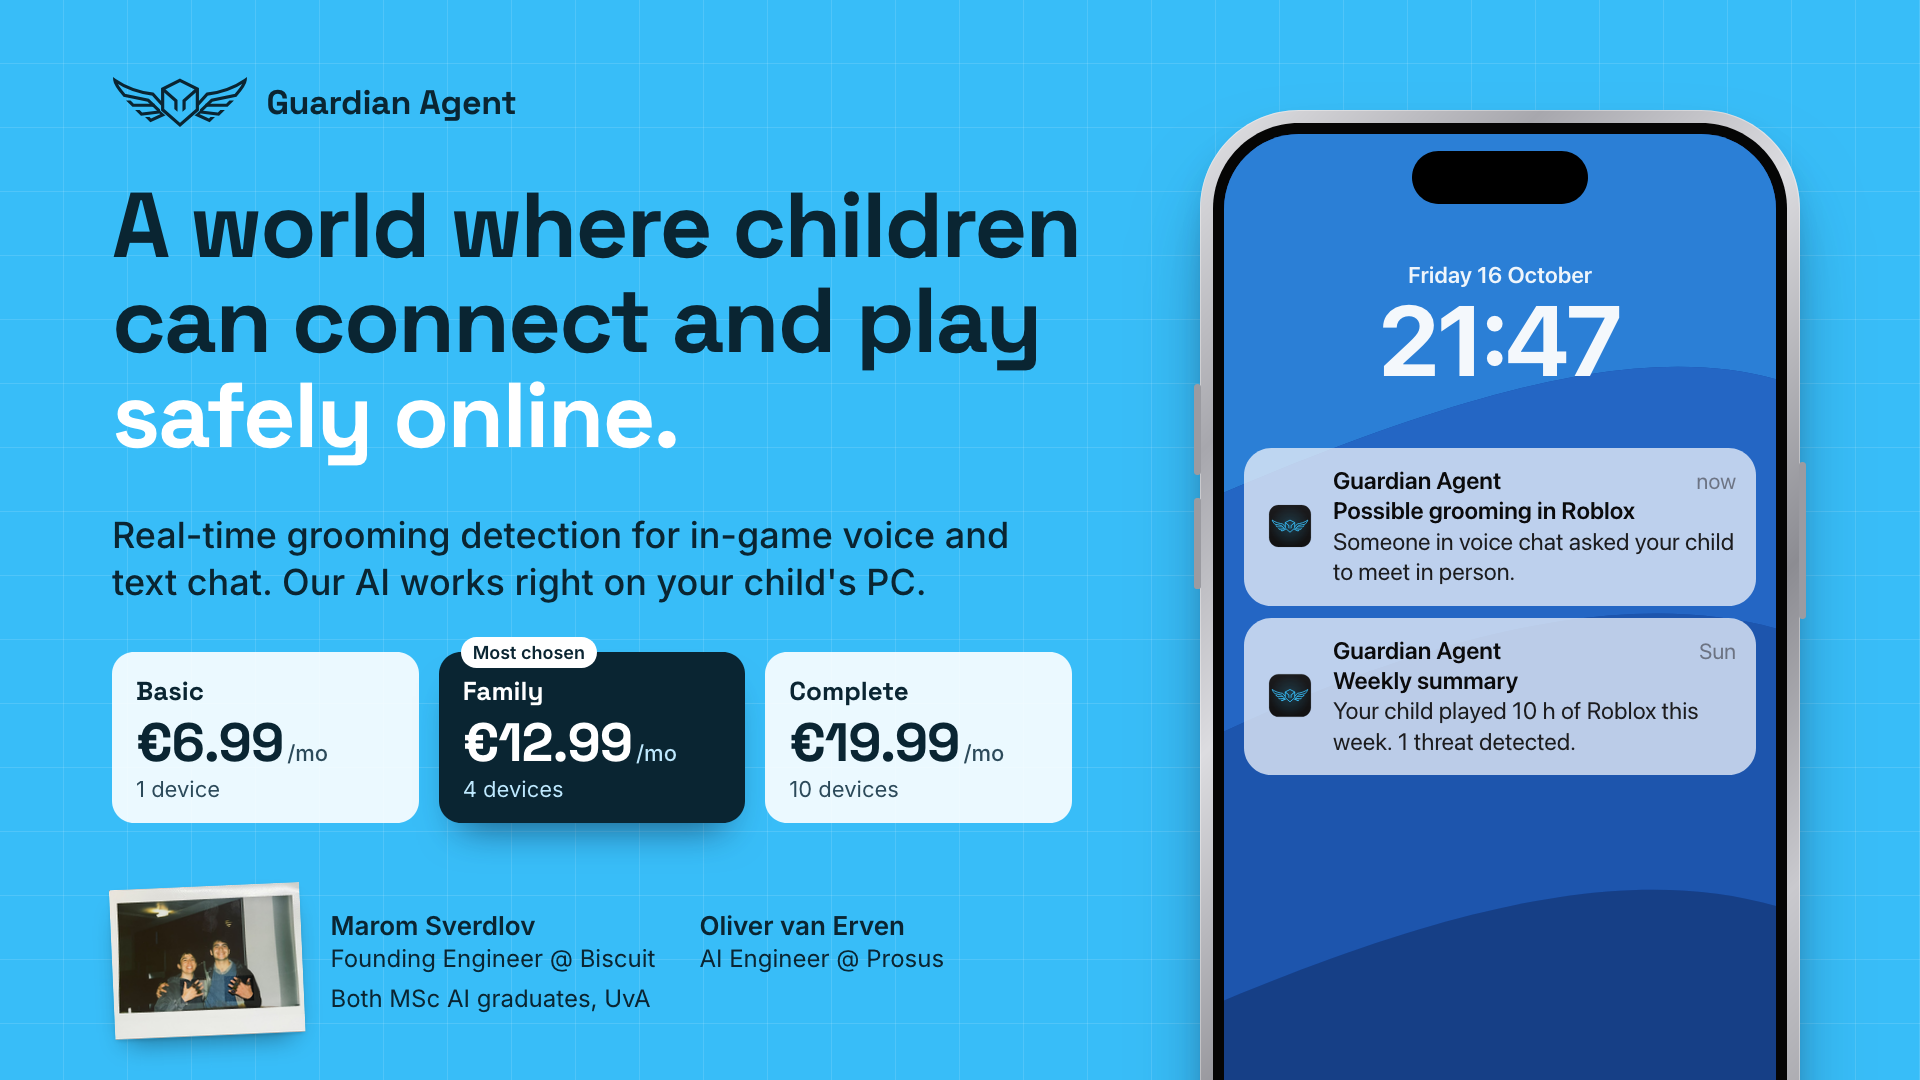
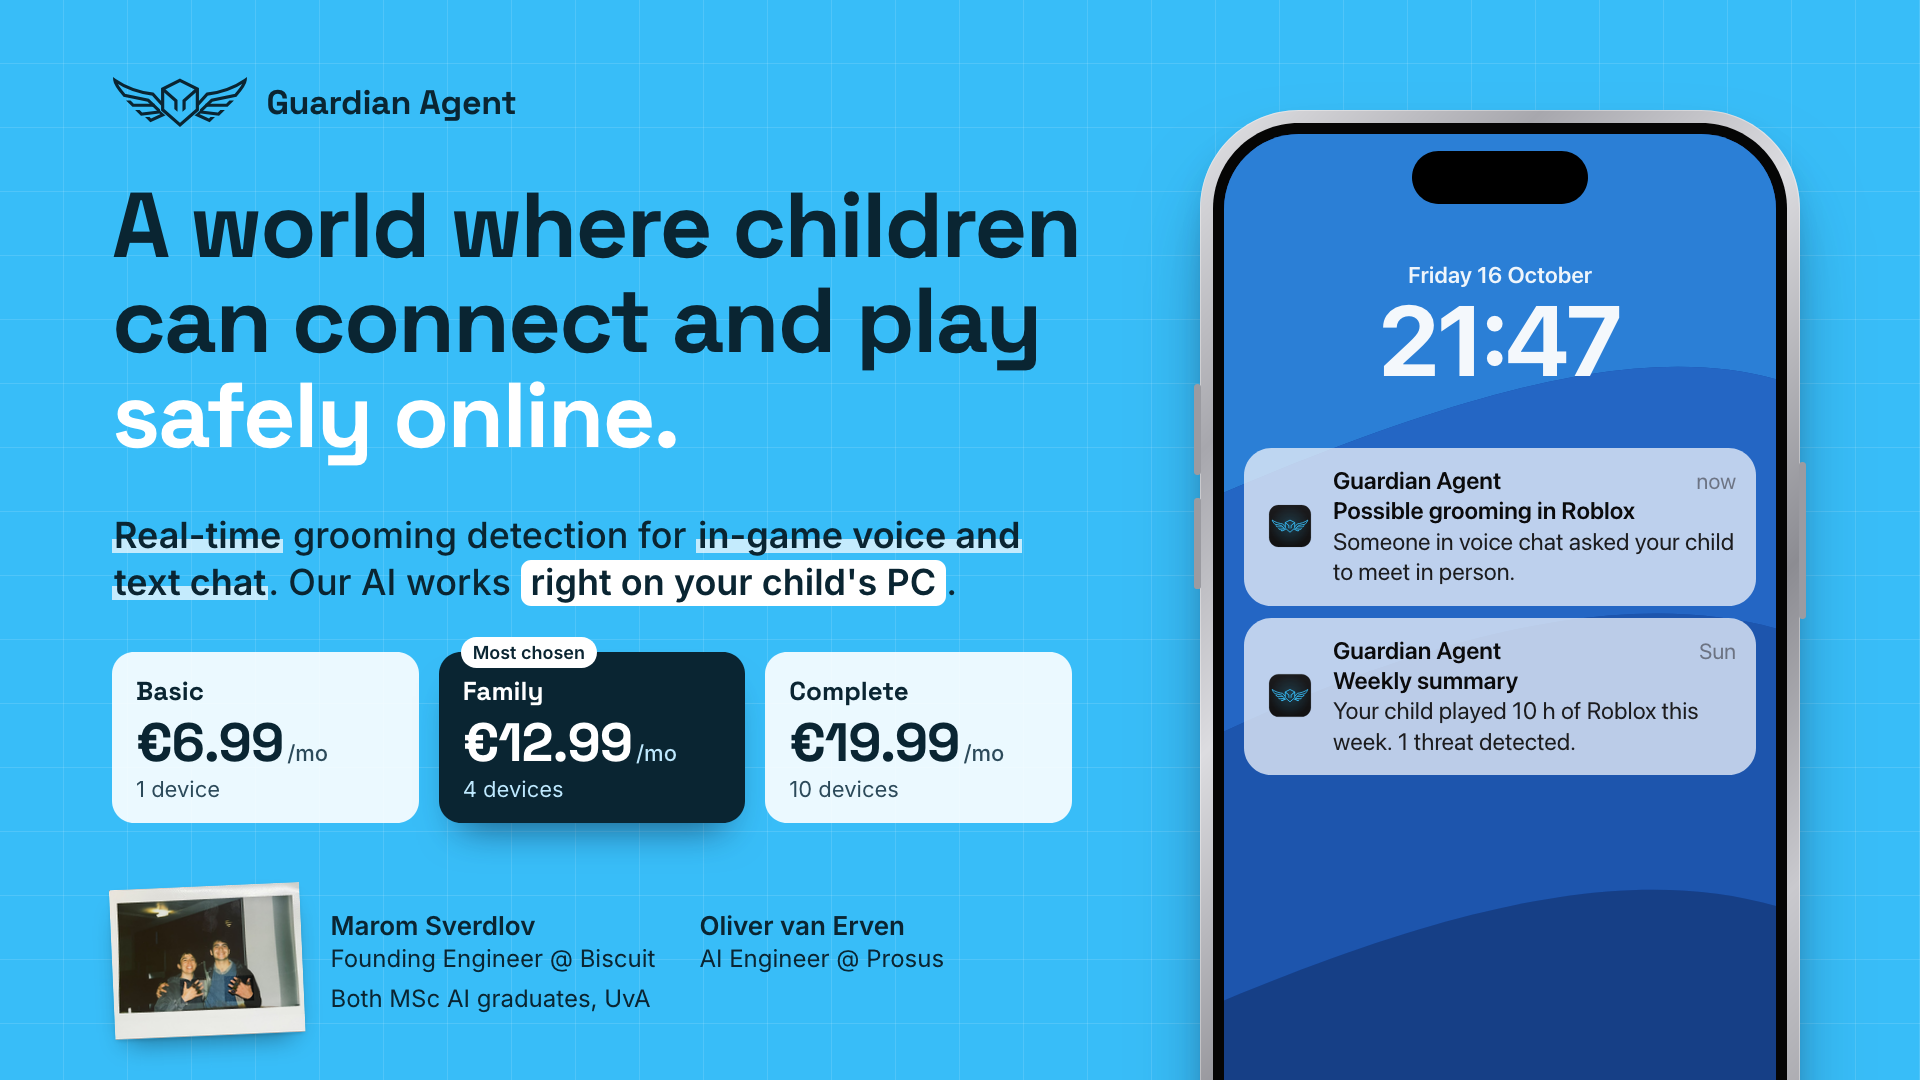
Update pitch slides

Changed region(s): [[0.0625, 0.4889, 0.5312, 0.5806]]

diff --git a/slides/v5c-zero.html b/slides/v5c-zero.html
@@ -9,6 +9,8 @@
 <style>
   h1 { position: absolute; left: 112px; top: 178px; width: 1000px; font-size: 92px; line-height: 1.03; }
   .lead { position: absolute; left: 112px; top: 512px; width: 960px; font-size: 34px; }
+  .lead strong { font-weight: 700; color: var(--navy); background: linear-gradient(transparent 60%, rgb(255 255 255 / 0.7) 60%, rgb(255 255 255 / 0.7) 92%, transparent 92%); padding: 0 2px; -webkit-box-decoration-break: clone; box-decoration-break: clone; }
+  .lead mark { color: var(--navy); font-weight: 700; background: #fff; padding: 0 10px 2px; border-radius: 10px; -webkit-box-decoration-break: clone; box-decoration-break: clone; }
   .plans { position: absolute; left: 112px; top: 652px; width: 960px; }
   .team { position: absolute; left: 112px; bottom: 44px; display: flex; align-items: center; gap: 28px; font-size: 24px; line-height: 1.3; }
   .team img { height: 150px; width: auto; transform: rotate(-2.5deg); box-shadow: 0 14px 28px -12px rgb(0 0 0 / 0.45), 0 2px 6px -2px rgb(0 0 0 / 0.25); }
@@ -24,7 +26,7 @@
 <main class="slide">
   <div class="lockup"><img src="../assets/logo-navy.svg" alt="">Guardian Agent</div>
   <h1>A world where children can connect and play <em>safely online.</em></h1>
-  <p class="lead">Real-time grooming detection for in-game voice and text chat. Our AI works right on your child's PC.</p>
+  <p class="lead"><strong>Real-time</strong> grooming detection for <strong>in-game voice and text chat</strong>. Our AI works <mark>right on your child's PC</mark>.</p>
   <div class="plans">
       <div class="plan"><b>Basic</b><div class="price">€6.99<small>/mo</small></div><span>1 device</span></div>
       <div class="plan plan--pick"><i>Most chosen</i><b>Family</b><div class="price">€12.99<small>/mo</small></div><span>4 devices</span></div>
